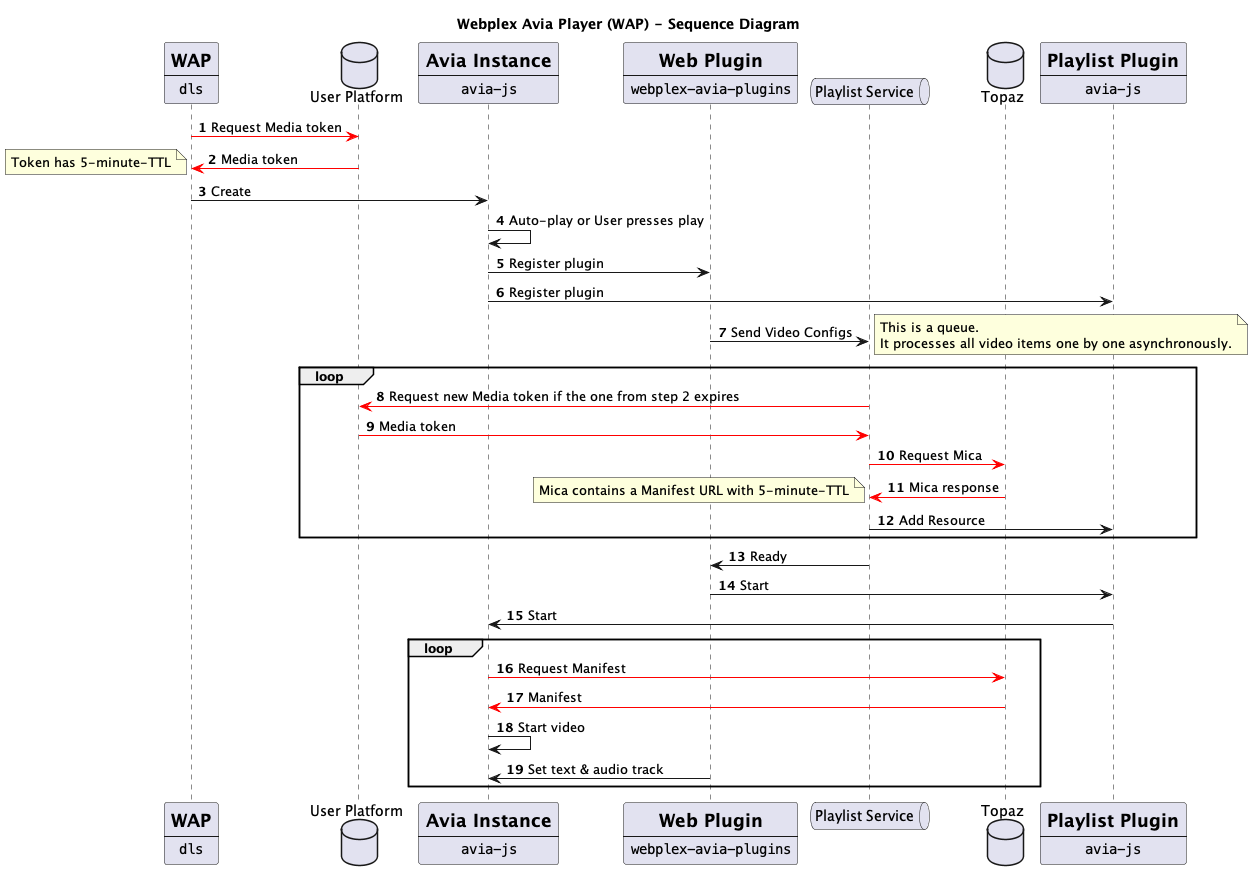
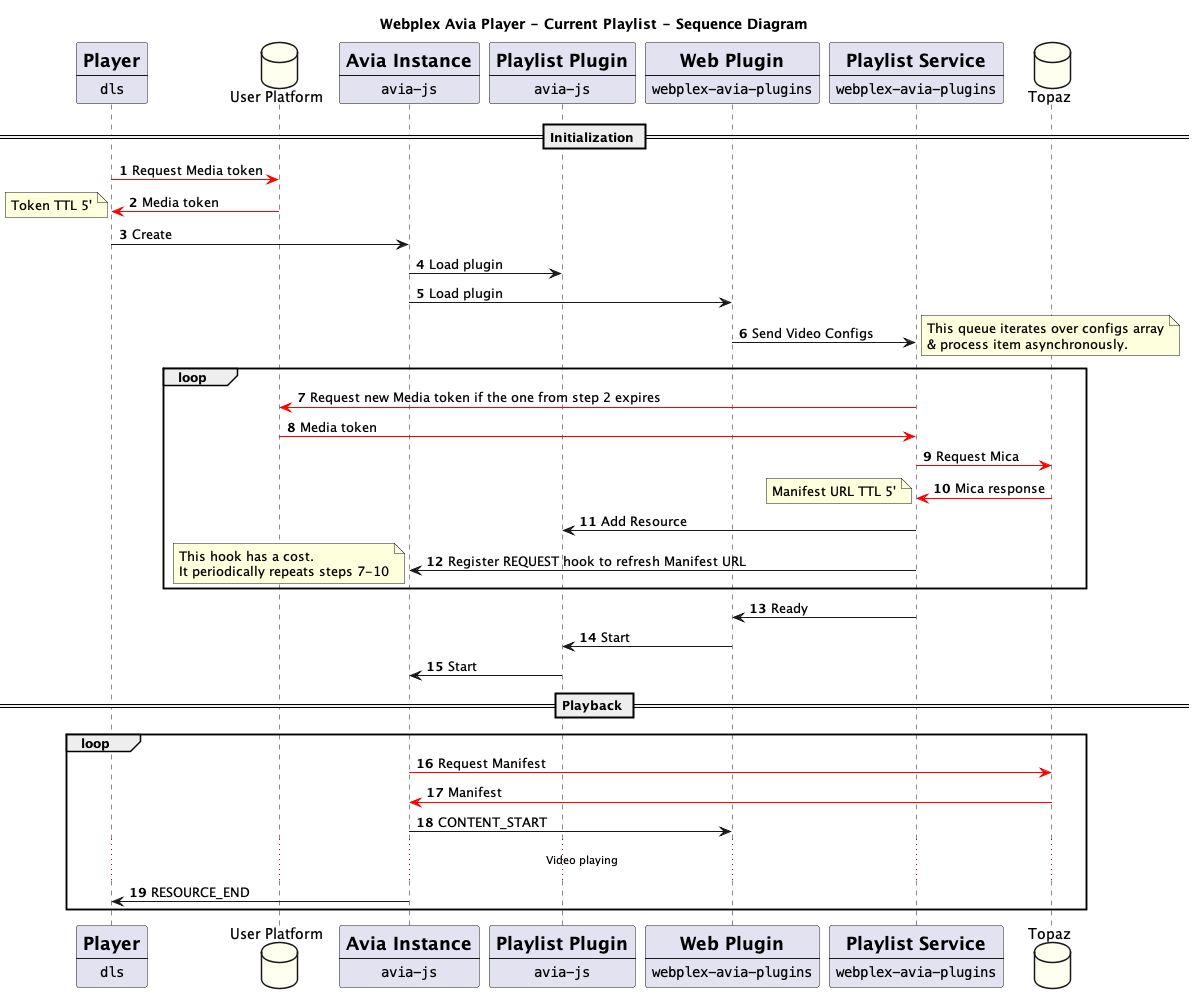
add notes

diff --git a/playlist.js b/playlist.js
@@ -1,3 +1,9 @@
+const VIDEOS = [
+  'https://test-streams.mux.dev/x36xhzz/x36xhzz.m3u8',
+  'https://playertest.longtailvideo.com/adaptive/elephants_dream_v4/redundant.m3u8'
+]
+
+// create Avia instance
 function createPlayer() {
   return avia.createVideoPlayer({
     container: '#videoPresentationContainer',
@@ -6,7 +12,7 @@ function createPlayer() {
       avia.gam.plugin(),
       avia.hls.plugin(),
       avia.dash.plugin(),
-      avia.playlist.plugin(),
+      avia.playlist.plugin({ debug: true }),
       avia.ui.plugin()
     ],
     logLevel: avia.LogLevel.DEBUG,
@@ -14,63 +20,50 @@ function createPlayer() {
   })
 }
 
-// Provide a resource to the player
-function playVideo(player) {
-  const resource = {
-    location: {
-      mediaUrl: 'https://test-streams.mux.dev/x36xhzz/x36xhzz.m3u8',
-    }
-  };
-
-  player.attachResource(resource)
-    .then(() => {
-      // resource successfully attached to player
-      // video presentation may be clicked to start play
-    })
-    .catch(e => {
-      // a problem prevented attaching the resource
-      console.log(e);
-    })
-}
-
-// Provide a resource to the playlist plugin
+// Provide a resource to the playlist plugin & start player
 function playPlaylist(player) {
-  const myPlaylist = player.getPlugin(avia.playlist.PLAYLIST)
-
   const configs = [
     {
       location: {
-        mediaUrl: 'https://test-streams.mux.dev/x36xhzz/x36xhzz.m3u8',
-      }
-    },
-    {
-      location: {
-        mediaUrl: 'https://playertest.longtailvideo.com/adaptive/elephants_dream_v4/redundant.m3u8',
+        mediaUrl: VIDEOS[0], // First video uses actual url to play
       }
     }
   ];
 
+  // subsequent item will have place holder url
+  for(let i = VIDEOS.length - 1; i > 0; i--) {
+    configs.push({ location: { mediaUrl: 'place holder' }})
+  }
+
+  const myPlaylist = player.getPlugin(avia.playlist.PLAYLIST)
   myPlaylist.addResources(configs)
+
   myPlaylist.start()
+
+  window.playlist = myPlaylist
 }
 
-const handlePlaylistEvent = (e) => {
-  if (e.detail.id === PLAYLIST) {
-
-      switch(e.detail.type) {
-
-          case PLAYLIST_ADVANCED:
-              //
-              break;
-          // etc.
-
-      }
+// Handle playlist event
+function handlePlaylistEvent(e) {
+  if (e.detail.id === avia.playlist.PLAYLIST) {
+    switch (e.detail.type) {
+      case avia.playlist.PlaylistEvent.PLAYLIST_ADVANCED:
+        // NOTE: The problem here is the extremly short timeframe to update next resource url. Performing reading e.detail.data.index could delay the operation.
+        playlist.list[1].location.mediaUrl = VIDEOS[1]
+        break;
+    }
   }
 }
 
+
 createPlayer()
   .then(player => {
+    window.player = player
     playPlaylist(player);
+
+    Object.values(avia.PlayerEvent).forEach(event => {
+      player.on(event, handlePlaylistEvent)
+    })
   })
   .catch(e => {
     // problem with player creation

diff --git a/Webplex Avia Player Refactor.md b/Webplex Avia Player Refactor.md
@@ -1,0 +1,121 @@
+## DLS Player Component
+### Hooks
+
+Single `videoDetail` input needs to change to videos array
+- `useAviaPlayer`
+- `useAviaWithAviaUI`
+
+Use `RESOURCE_END` to trigger Up Next redirection must change to `PLAYLIST_COMPLETE`
+- `useRelatedVideosForUpNext`
+
+### Components
+
+Single `videoDetail` input needs to change to video array
+- `Player`: immersive player
+- `Avia`: player with standard ui
+
+### Proposal
+
+- New components: `PlaylistPlayer`, `PlaylistAvia`
+- New hooks: `useAviaPlaylist`, `useAviaPlaylistWithAviaUI`
+
+
+## Webplex Avia Plugins
+
+### Playlist Service
+
+Current logic fetches all video manifest before playback. For a playlist with 10 one-minute clips, the timeline will be as below:
+
+**Clip 1 starts**
+- Clip 1: Manifest TTL 5'
+- Clip 2: Manifest TTL 5' - REQUEST hook in background fetching new token every 4'
+- Clip 3: Manifest TTL 5' - REQUEST hook in background fetching new token every 4'
+- Clip 4: Manifest TTL 5' - REQUEST hook in background fetching new token every 4'
+- Clip 5: Manifest TTL 5' - REQUEST hook in background fetching new token every 4'
+- Clip 6: Manifest TTL 5' - REQUEST hook in background fetching new token every 4'
+- Clip 7: Manifest TTL 5' - REQUEST hook in background fetching new token every 4'
+- Clip 8: Manifest TTL 5' - REQUEST hook in background fetching new token every 4'
+- Clip 9: Manifest TTL 5' - REQUEST hook in background fetching new token every 4'
+- Clip 10: Manifest TTL 5' - REQUEST hook in background fetching new token every 4'
+
+**Clip 2 starts**
+- Clip 1: Manifest TTL 4'
+- Clip 2: Manifest TTL 4'
+- Clip 3: Manifest TTL 4' - REQUEST hook in background fetching new token every 4'
+- Clip 4: Manifest TTL 4' - REQUEST hook in background fetching new token every 4'
+- Clip 5: Manifest TTL 4' - REQUEST hook in background fetching new token every 4'
+- Clip 6: Manifest TTL 4' - REQUEST hook in background fetching new token every 4'
+- Clip 7: Manifest TTL 4' - REQUEST hook in background fetching new token every 4'
+- Clip 8: Manifest TTL 4' - REQUEST hook in background fetching new token every 4'
+- Clip 9: Manifest TTL 4' - REQUEST hook in background fetching new token every 4'
+- Clip 10: Manifest TTL 4' - REQUEST hook in background fetching new token every 4'
+
+...
+
+**Clip 5 starts**
+- Clip 1: Manifest TTL 0
+- Clip 2: Manifest TTL 0
+- Clip 3: Manifest TTL 0
+- Clip 4: Manifest TTL 0
+- Clip 5: Manifest TTL 5 - TTL refreshed. REQUEST hook in background fetching new token every 4'
+- Clip 6: Manifest TTL 5 - TTL refreshed. REQUEST hook in background fetching new token every 4'
+- Clip 7: Manifest TTL 5 - TTL refreshed. REQUEST hook in background fetching new token every 4'
+- Clip 8: Manifest TTL 5 - TTL refreshed. REQUEST hook in background fetching new token every 4'
+- Clip 9: Manifest TTL 5 - TTL refreshed. REQUEST hook in background fetching new token every 4'
+- Clip 10: Manifest TTL 5 - TTL refreshed. REQUEST hook in background fetching new token every 4'
+
+...
+
+**Clip 8 starts**
+- Clip 1: Manifest TTL 0
+- Clip 2: Manifest TTL 0
+- Clip 3: Manifest TTL 0
+- Clip 4: Manifest TTL 0
+- Clip 5: Manifest TTL 2
+- Clip 6: Manifest TTL 2
+- Clip 7: Manifest TTL 2
+- Clip 8: Manifest TTL 2 - REQUEST hook in background fetching new token every 4'
+- Clip 9: Manifest TTL 2 - REQUEST hook in background fetching new token every 4'
+- Clip 10: Manifest TTL 2 - REQUEST hook in background fetching new token every 4'
+
+
+...
+
+**Clip 9 starts**
+- Clip 1: Manifest TTL 0
+- Clip 2: Manifest TTL 0
+- Clip 3: Manifest TTL 0
+- Clip 4: Manifest TTL 0
+- Clip 5: Manifest TTL 0
+- Clip 6: Manifest TTL 0
+- Clip 7: Manifest TTL 0
+- Clip 8: Manifest TTL 0
+- Clip 9: Manifest TTL 5 - TTL refreshed. REQUEST hook in background fetching new token every 4'
+- Clip 10: Manifest TTL 5 - TTL refreshed. REQUEST hook in background fetching new token every 4'
+
+...
+
+**Clip 10 starts**
+- Clip 1: Manifest TTL 0
+- Clip 2: Manifest TTL 0
+- Clip 3: Manifest TTL 0
+- Clip 4: Manifest TTL 0
+- Clip 5: Manifest TTL 0
+- Clip 6: Manifest TTL 0
+- Clip 7: Manifest TTL 0
+- Clip 8: Manifest TTL 0
+- Clip 9: Manifest TTL 4
+- Clip 10: Manifest TTL 4
+
+
+So in playlist life time of 10', we send 10 (at 0) + 6 (at 4') + 2 (at 8')= 18 requests to Topaz mica.
+If at the end of clip 10, we replay the playlist from 1, the cycle will repeat.
+
+I have experiemented with using Player Event to update clip manifest just in time instead of at the player creation.
+
+There are 2 options to update `playlist.list[index].location.mediaUrl`
+- `PLAYLIST_ADVANCED`: when playlist prev/next 
+- `RESOURCE_END`: when current content end
+
+Both have drawbacks of their own.
+
